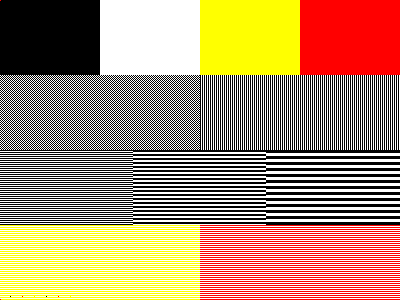
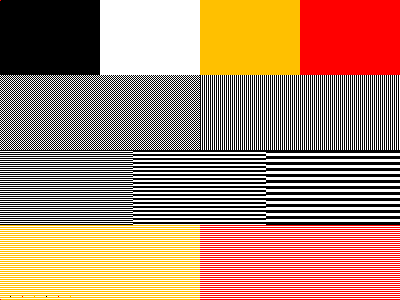
Ship #FFC000 as the yellow ink, and stop it wrecking the greys
The palette was doing two jobs at once: deciding which ink each pixel
gets, and being the colour written into the file. Those want different
values. A panel's yellow is a mustard, and its software quantises to its
own measured inks, so a file saying #FFFF00 carries an error that gets
re-dithered — but #FFC000 sits far closer to mid-grey in the colour
metric than #FFFF00 does, so quantising against it turns grey mid-tones
yellow. That is what setting it by hand in the settings did, and it was
the palette working as written rather than a bug in the settings.

So there are now two palettes. MATCH_PALETTE is the idealised primaries
and is what nearest() and the error diffusion use; DEFAULT_PALETTE is
what gets emitted, and its yellow is #FFC000. The background fill is
laid down in the matching colour so the quantiser has no error to
scatter into the edge of the photo, then pinned to the real ink after.

The inks stay editable and still only affect the output. The stored-inks
key is bumped so devices holding a copy of the old defaults pick the new
ones up. The diagnostic test card is regenerated in the same inks, since
a card in different colours would not be testing the same thing.

Claude-Session: https://claude.ai/code/session_01WdMitP6fartahy7fsV5NQ3

Changed region(s): [[0.0, 0.75, 0.51, 1.0], [0.48, 0.0, 0.75, 0.27]]

diff --git a/app.js b/app.js
@@ -5,10 +5,33 @@
 /* ---------------------------------------------------------------- palette */
 /* Index order matters: it is the code written into the packed .bin export
    (0=black, 1=white, 2=yellow, 3=red — the usual Waveshare 4-colour layout). */
-const DEFAULT_PALETTE = [
+/* Two palettes, because the colours have two jobs.
+
+   MATCH_PALETTE is what the quantiser reasons about: which ink is nearest to
+   a pixel, and how much error is left over to diffuse. It is the idealised
+   primaries, and it stays that way.
+
+   DEFAULT_PALETTE is what actually gets written into the file. A panel's
+   yellow is not #FFFF00 — it is a mustard, and the panel's own software
+   quantises to its measured inks, so a file saying #FFFF00 carries an error
+   the software then re-dithers. Writing the ink the software expects is what
+   makes that re-dither a no-op.
+
+   Conflating the two is a trap: #FFC000 sits far closer to mid-grey than
+   #FFFF00 does, so quantising against it turns greys yellow. The panel's
+   yellow still reads as yellow to the eye — it is the same slot in the
+   picture, just a different pigment — so matching keeps the bright primary
+   and only the emitted bytes change. */
+const MATCH_PALETTE = [
   [0,   0,   0  ],  // 0 black
   [255, 255, 255],  // 1 white
   [255, 255, 0  ],  // 2 yellow
+  [255, 0,   0  ],  // 3 red
+];
+const DEFAULT_PALETTE = [
+  [0,   0,   0  ],  // 0 black
+  [255, 255, 255],  // 1 white
+  [255, 192, 0  ],  // 2 yellow — the panel's mustard, not a pure primary
   [255, 0,   0  ],  // 3 red
 ];
 const PAL_NAMES = ['black','white','yellow','red'];
@@ -27,8 +50,17 @@ const PALETTE = DEFAULT_PALETTE.map(c => c.slice());
 /* Flat copy — nearest() runs once per pixel per frame, and a typed array
    avoids re-dereferencing the nested arrays on every candidate. */
 const PAL_FLAT = new Float32Array(12);
+/* The matching palette never changes, so it is flattened once. */
+const MATCH_FLAT = new Float32Array(12);
+for (let i = 0; i < 4; i++) {
+  MATCH_FLAT[i * 3]     = MATCH_PALETTE[i][0];
+  MATCH_FLAT[i * 3 + 1] = MATCH_PALETTE[i][1];
+  MATCH_FLAT[i * 3 + 2] = MATCH_PALETTE[i][2];
+}
 
-const INK_KEY = 'einkcam.inks';
+/* Bumped when the shipped inks change, so every device picks the new ones up
+   instead of holding on to a copy of the old defaults. */
+const INK_KEY = 'einkcam.inks2';
 
 function hex(c) {
   return '#' + c.map(v => v.toString(16).padStart(2, '0')).join('');
@@ -94,7 +126,7 @@ function nearest(r, g, b) {
   let best = inks[0], bestD = Infinity;
   for (let k = 0, n = inks.length; k < n; k++) {
     const i = inks[k], o = i * 3;
-    const dr = r - PAL_FLAT[o], dg = g - PAL_FLAT[o+1], db = b - PAL_FLAT[o+2];
+    const dr = r - MATCH_FLAT[o], dg = g - MATCH_FLAT[o+1], db = b - MATCH_FLAT[o+2];
     const d = WR*dr*dr + WG*dg*dg + WB*db*db;
     if (d < bestD) { bestD = d; best = i; }
   }
@@ -357,7 +389,10 @@ function grabFrame(src, sw, sh) {
    contrast slider has nudged half a level off the palette dithers into
    speckle — the one artefact this app exists to avoid. */
 function paintBackground(frame) {
-  const d = frame.data, bg = PALETTE[state.bg], n = W * H;
+  /* Filled with the matching colour, not the pigment: the fill is about to go
+     through the quantiser, and an exact match leaves no error to diffuse into
+     the edge of the photo. restoreBackground puts the real ink back after. */
+  const d = frame.data, bg = MATCH_PALETTE[state.bg], n = W * H;
   hasBg = false;
   for (let p = 0, i = 0; p < n; p++, i += 4) {
     const a = d[i + 3];
@@ -450,12 +485,15 @@ function quantize(mode_, amt) {
       const p = y * W + x, j = p * 3;
       const or = buf[j], og = buf[j + 1], ob = buf[j + 2];
       const idx = nearest(or, og, ob);
-      const pal = PALETTE[idx];
+      const m = idx * 3;
       emit(out, p, idx);
 
-      const er = (or - pal[0]) * amt;
-      const eg = (og - pal[1]) * amt;
-      const eb = (ob - pal[2]) * amt;
+      /* Diffuse what the matching colour left over. Measuring against the
+         emitted pigment instead would scatter a large constant error across
+         every neighbour, which is the very artefact this is here to avoid. */
+      const er = (or - MATCH_FLAT[m]) * amt;
+      const eg = (og - MATCH_FLAT[m + 1]) * amt;
+      const eb = (ob - MATCH_FLAT[m + 2]) * amt;
 
       if (atkinson) {
         const f = 1 / 8;
@@ -619,7 +657,7 @@ function nearestInk(r, g, b) {
     const i = inks[k];
     if (i === 1) continue;
     const o = i * 3;
-    const dr = r - PAL_FLAT[o], dg = g - PAL_FLAT[o+1], db = b - PAL_FLAT[o+2];
+    const dr = r - MATCH_FLAT[o], dg = g - MATCH_FLAT[o+1], db = b - MATCH_FLAT[o+2];
     const d = WR*dr*dr + WG*dg*dg + WB*db*db;
     if (d < bestD) { bestD = d; best = i; }
   }

diff --git a/README.md b/README.md
@@ -140,6 +140,27 @@ line is the first thing to disappear if panel software rescales or re-dithers
 the image on its way to the display, and it is marginal on the panel itself, so
 weight buys lines that survive the trip.
 
+## The yellow is a mustard, on purpose
+
+The shipped yellow ink is **`#FFC000`**, not `#FFFF00`. A panel's yellow is a
+mustard pigment, and the panel's own software quantises to its measured inks —
+so a file claiming `#FFFF00` carries an error that the software then re-dithers,
+which is what breaks solid areas and one-pixel lines. Writing the ink it expects
+makes that re-dither a no-op.
+
+This is why the palette is **two palettes**. The quantiser matches against the
+idealised primaries (`#FFFF00`) and diffuses its error against them; only the
+bytes written out use the real pigment. Conflating the two is a trap worth
+naming: `#FFC000` sits far closer to mid-grey in the colour metric than
+`#FFFF00` does, so quantising *against* it turns grey mid-tones yellow and the
+picture falls apart. The panel's yellow still reads as yellow to the eye — same
+slot in the picture, different pigment — so matching keeps the bright primary
+and only the output changes.
+
+The inks stay editable in **About**, and edits change only what is written, not
+how the image is decided. If your panel's yellow measures differently, put its
+value in there.
+
 ## Getting it onto a panel
 
 Panel apps generally re-process whatever you upload, which can undo the work:
